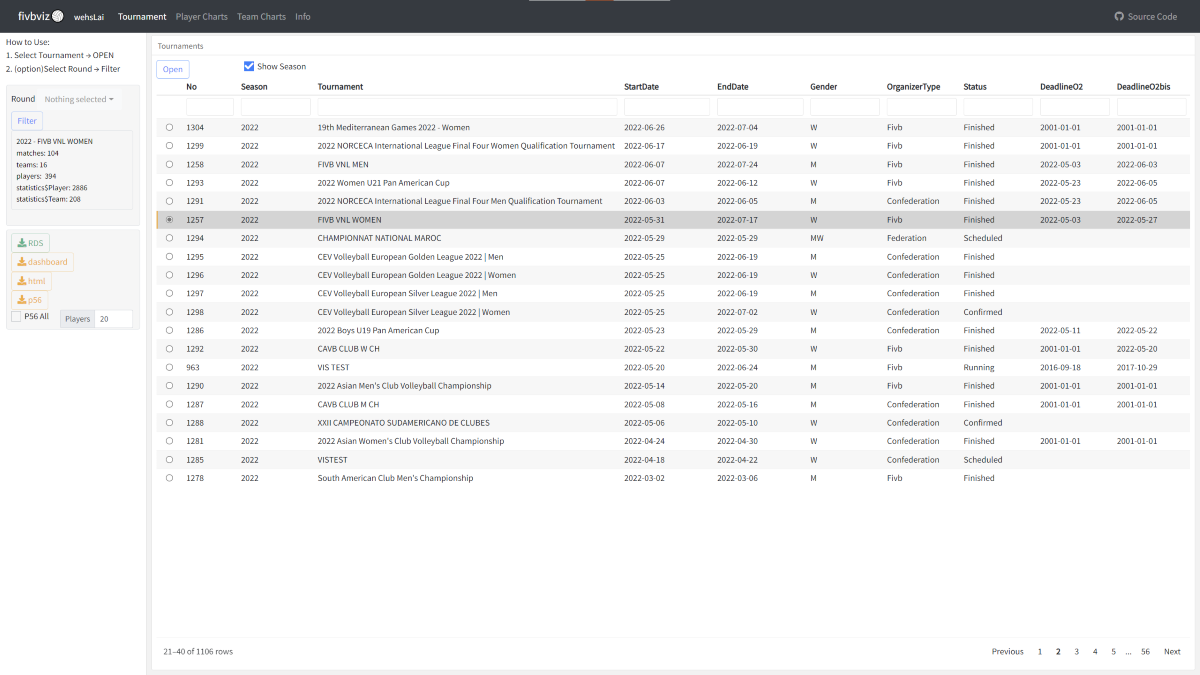
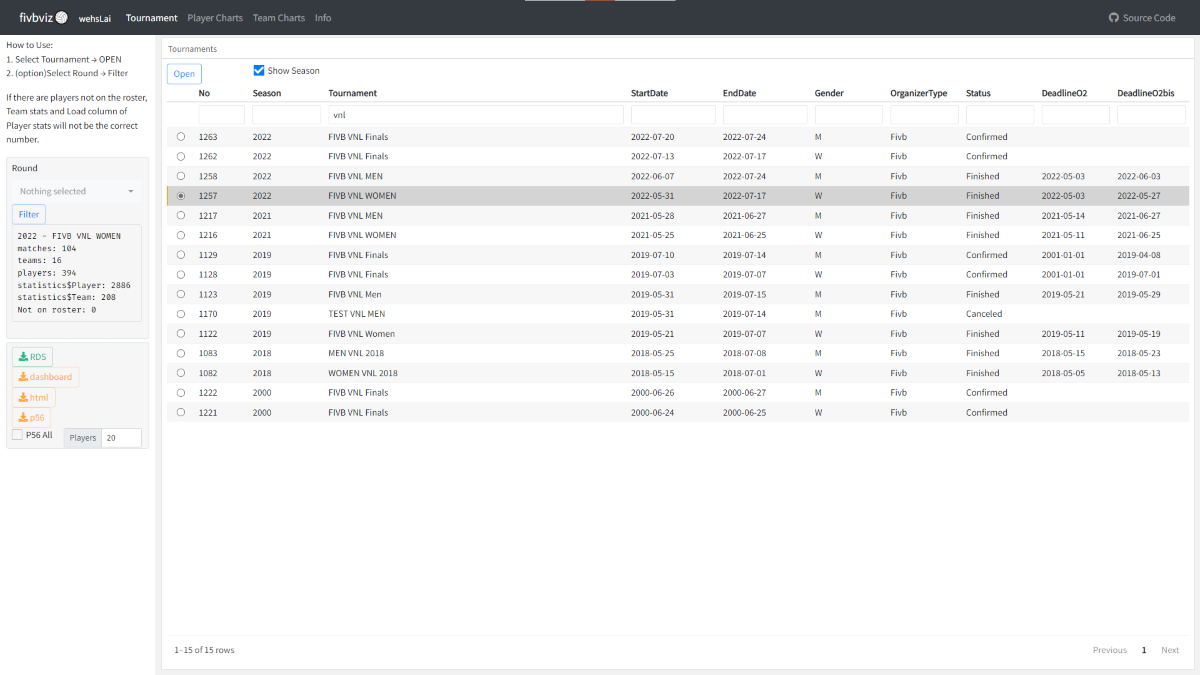
feat: P-3 Text Version Avalible. Add Zero Performance Ranking parameter for decide if 0 performance should ranking or not.

diff --git a/README.md b/README.md
@@ -13,5 +13,3 @@ Shiny dashboard for visualizing FIVB volleyball data.
 ![](asset/player_attacker.png)
 
 ![](asset/team_blocker.png)
-
-![](asset/roster.png)
